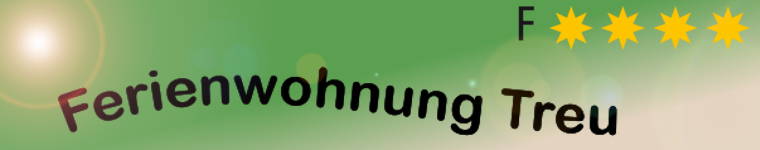
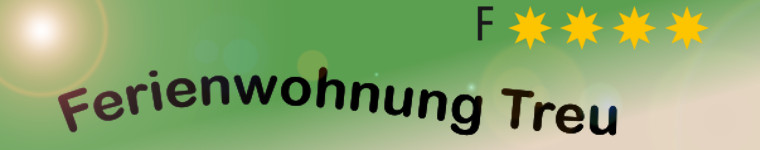
remaster topimg + delete reinigungsservice

diff --git a/html/preise.php b/html/preise.php
@@ -13,9 +13,6 @@ Wir kaufen für Sie Lebensmittel ein, damit der Kühlschrank schon zu Urlaubsbeg
 <b>Getränkeservice:</b> <br />
 Bei uns können Sie Getränke ordern. Bitte hierzu Getränkeliste anfordern.<br />
 <br />
-<b>Reinigungsservice:</b> <br />
-Auf Wunsch reinigen wir bei einem mehrwöchigen Aufenthalt die Wohnung einmal wöchentlich.<br />
-<br />
 <b>WLAN:</b> <br />
 Für die Dauer ihres Aufenthalts stellen wir Ihnen gerne WLAN zu Verfügung.<br />
 <br />
